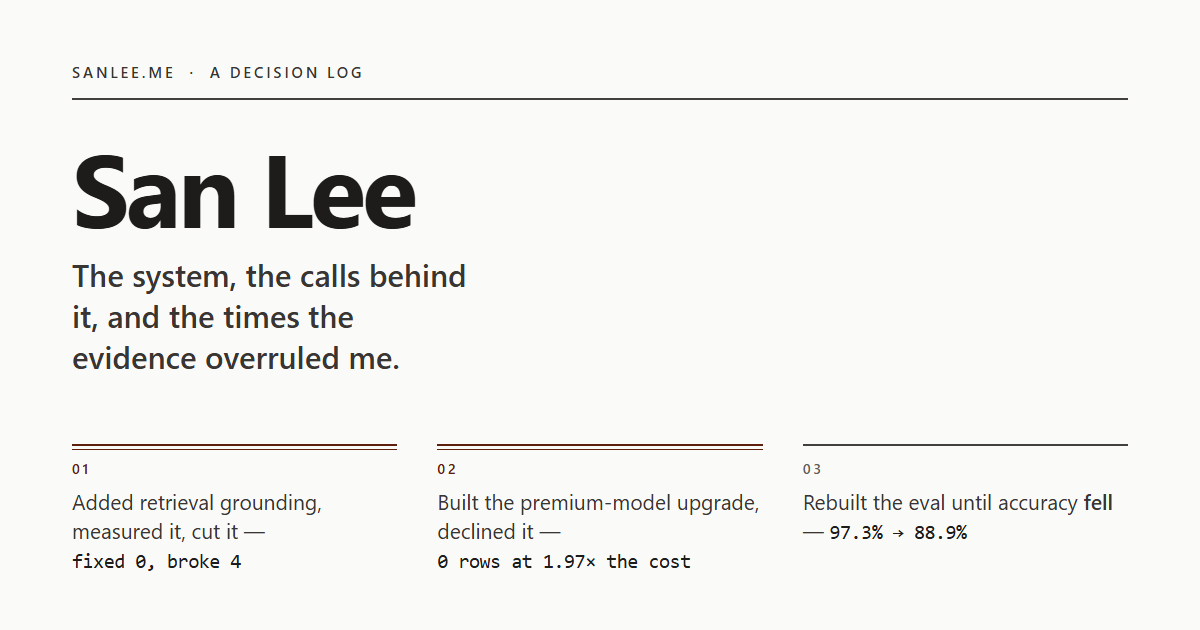
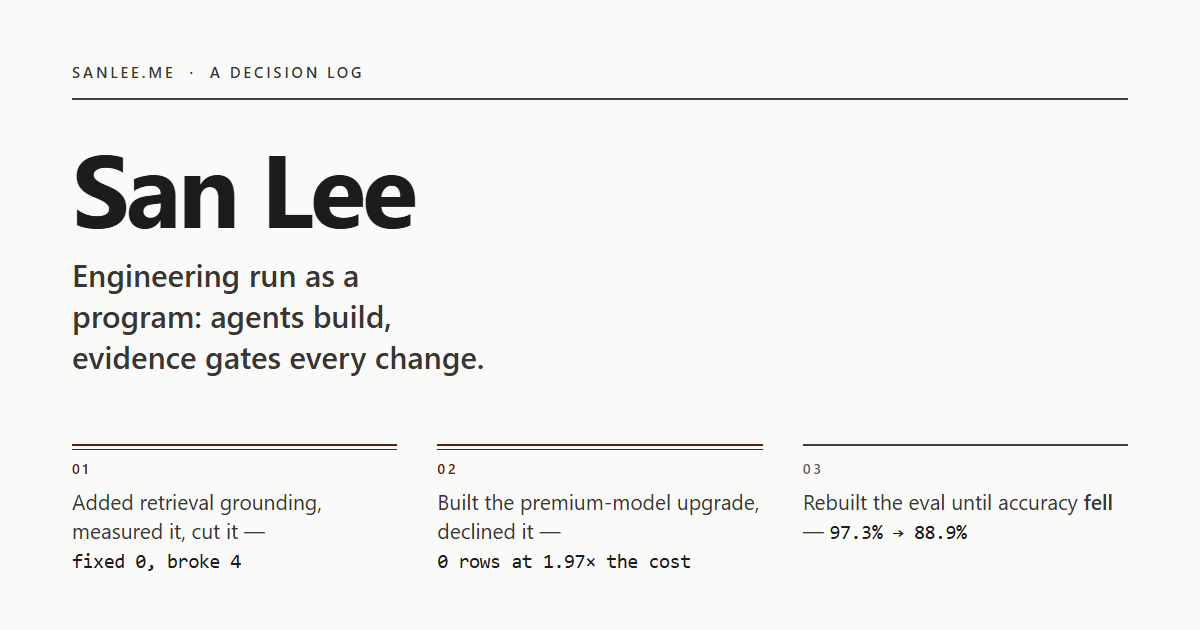
feat(og-cover): follow the homepage positioning
The card's standfirst still carried the description the hero replaced
("the system, the calls behind it, and the times the evidence overruled
me"), so the one surface every link preview renders was previewing copy
that no longer exists on the page. It now reads "Engineering run as a
program: agents build, evidence gates every change."

The dateline stays "sanlee.me · a decision log" — still accurate — and
the three proof entries are untouched.

Regenerated with scripts/og-cover.cjs against a fresh build, and the PNG
was inspected rather than trusted to the exit code: the standfirst sets
in three lines with clearance above the proof grid, and the figures are
in real Geist Mono, not a fallback face.

npm run qa green, fourteen gates.

Changed region(s): [[0.0617, 0.4222, 0.4008, 0.6032]]

diff --git a/scripts/og-cover.html b/scripts/og-cover.html
@@ -107,7 +107,7 @@
 <body>
   <div class="dateline">sanlee.me &nbsp;·&nbsp; a decision log</div>
   <h1>San Lee</h1>
-  <p class="standfirst">The system, the calls behind it, and the times the evidence overruled me.</p>
+  <p class="standfirst">Engineering run as a program: agents build, evidence gates every change.</p>
   <ul class="proof">
     <li class="rev"><span class="idx">01</span><span class="claim">Added retrieval grounding, measured it, cut it &mdash; <span class="fig">fixed 0, broke 4</span></span></li>
     <li class="rev"><span class="idx">02</span><span class="claim">Built the premium-model upgrade, declined it &mdash; <span class="fig">0 rows at 1.97&times; the cost</span></span></li>
